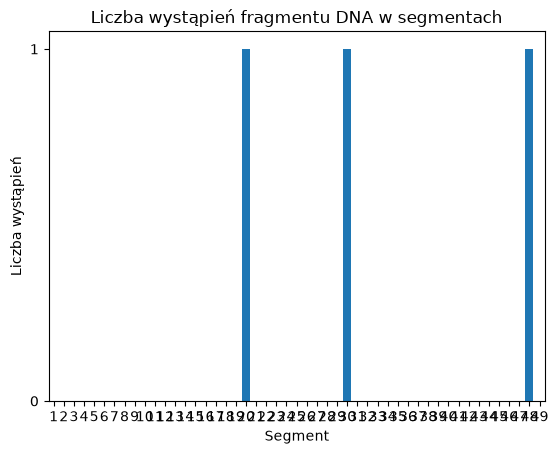
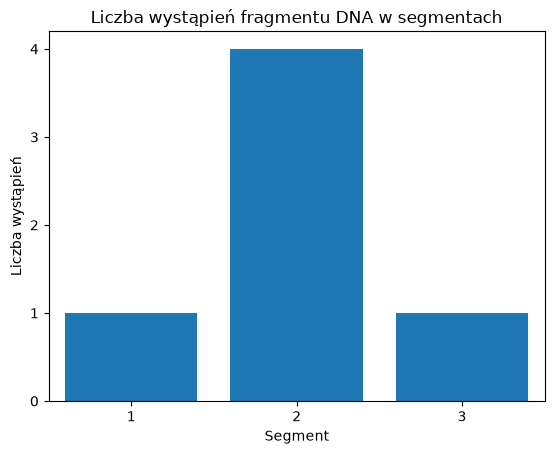
Poprawa walidacji fragemntu DNA

diff --git a/main.py b/main.py
@@ -117,26 +117,25 @@ while True:
     break
 
 
-#sprawdzenie, czy fragment składa się z ACGT
+#sprawdzenie, czy fragment składa się z ACGT i występuje w sekwencji
 while True:
     fragment = input("Podaj szukany fragment DNA: ")
     fragment = "".join(fragment.split()).upper()
 
-    if sprawdz_fragment(fragment): #jeśli ok zwraca True
-        break
-    else:
+    if not sprawdz_fragment(fragment):
         print("Nieprawidłowa sekwencja. Dozwolone znaki to A, T, G i C.")
+        continue
 
+    pozycje = znajdz_fragment(sekwencja, fragment)
+    if len(pozycje) == 0:
+        print("Nie znaleziono podanego fragmentu. Spróbuj ponownie.")
+        continue
+    break
 
-#szukanie fragmentu w sekwencji i zapisanie wystąpień
-pozycje = znajdz_fragment(sekwencja, fragment)
-if len(pozycje) == 0:
-    print("Nie znaleziono podanego fragmentu.")
-else:
-    print(f"Liczba wystąpień: {len(pozycje)}")
-    print("Pozycje wystąpień:")
-    for pozycja in pozycje:
-        print(f"{pozycja[0]}-{pozycja[1]}")
+print(f"Liczba wystąpień: {len(pozycje)}")
+print("Pozycje wystąpień:")
+for pozycja in pozycje:
+    print(f"{pozycja[0]}-{pozycja[1]}")
 
 
 #tworzenie tabeli z pozycjami wystąpień
